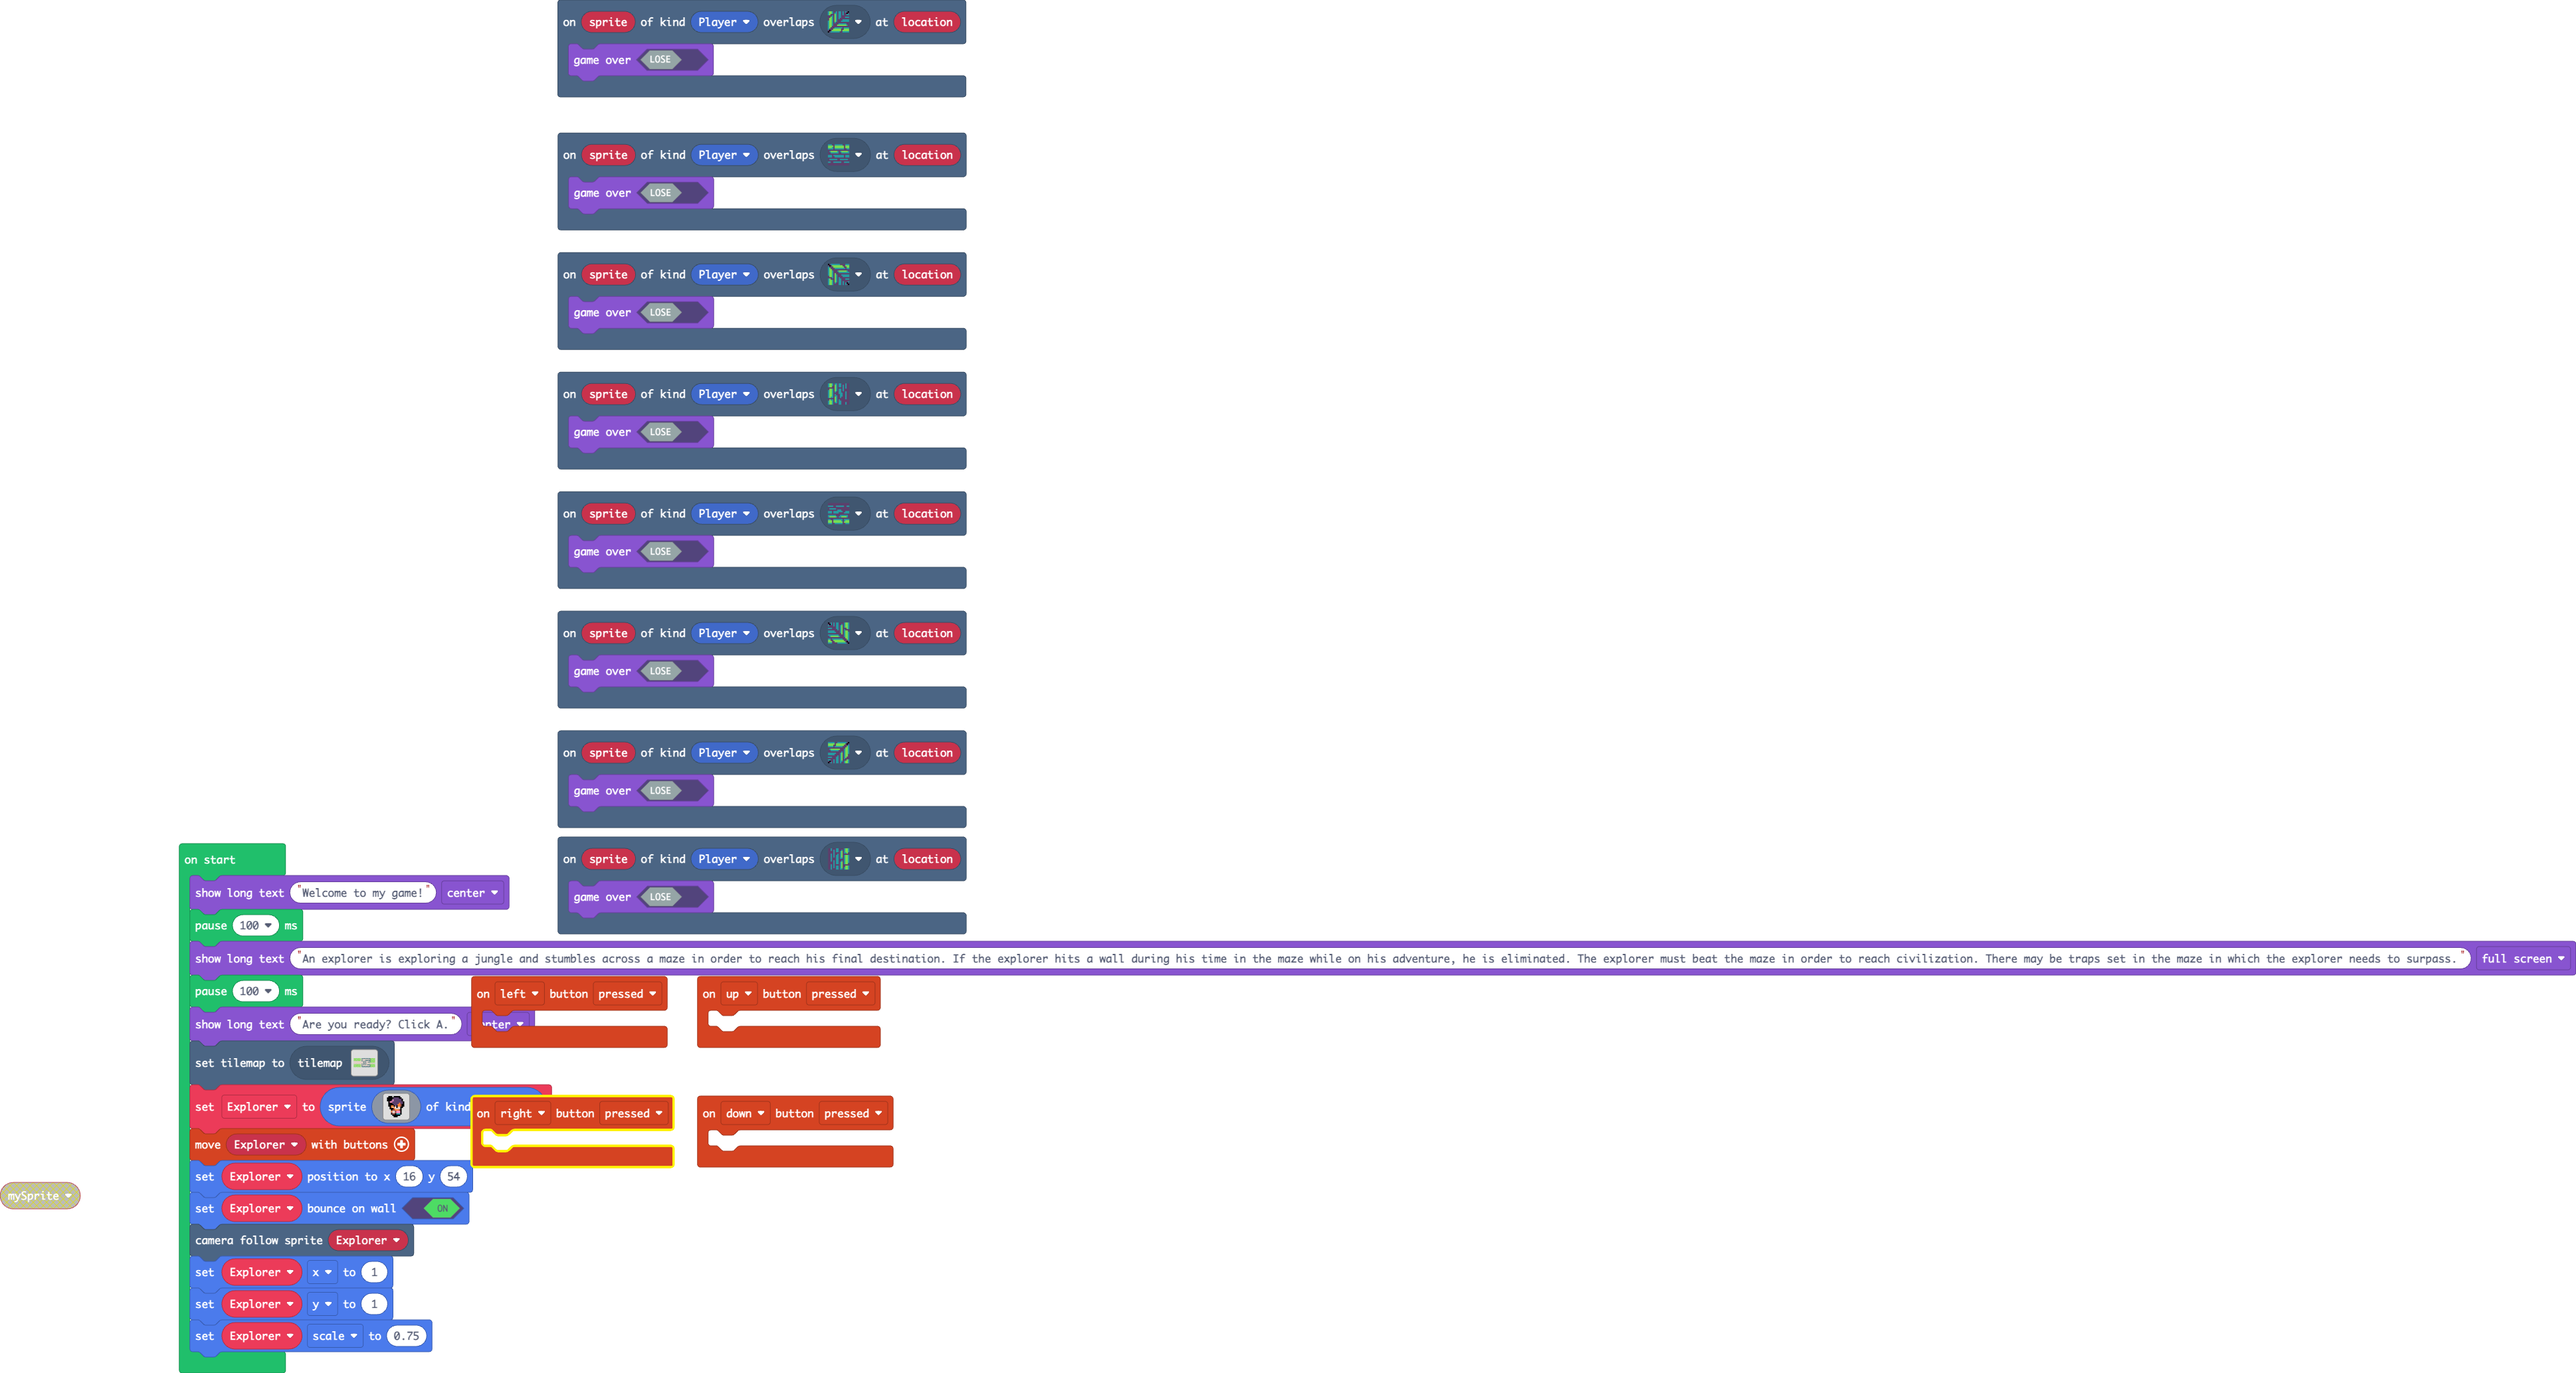
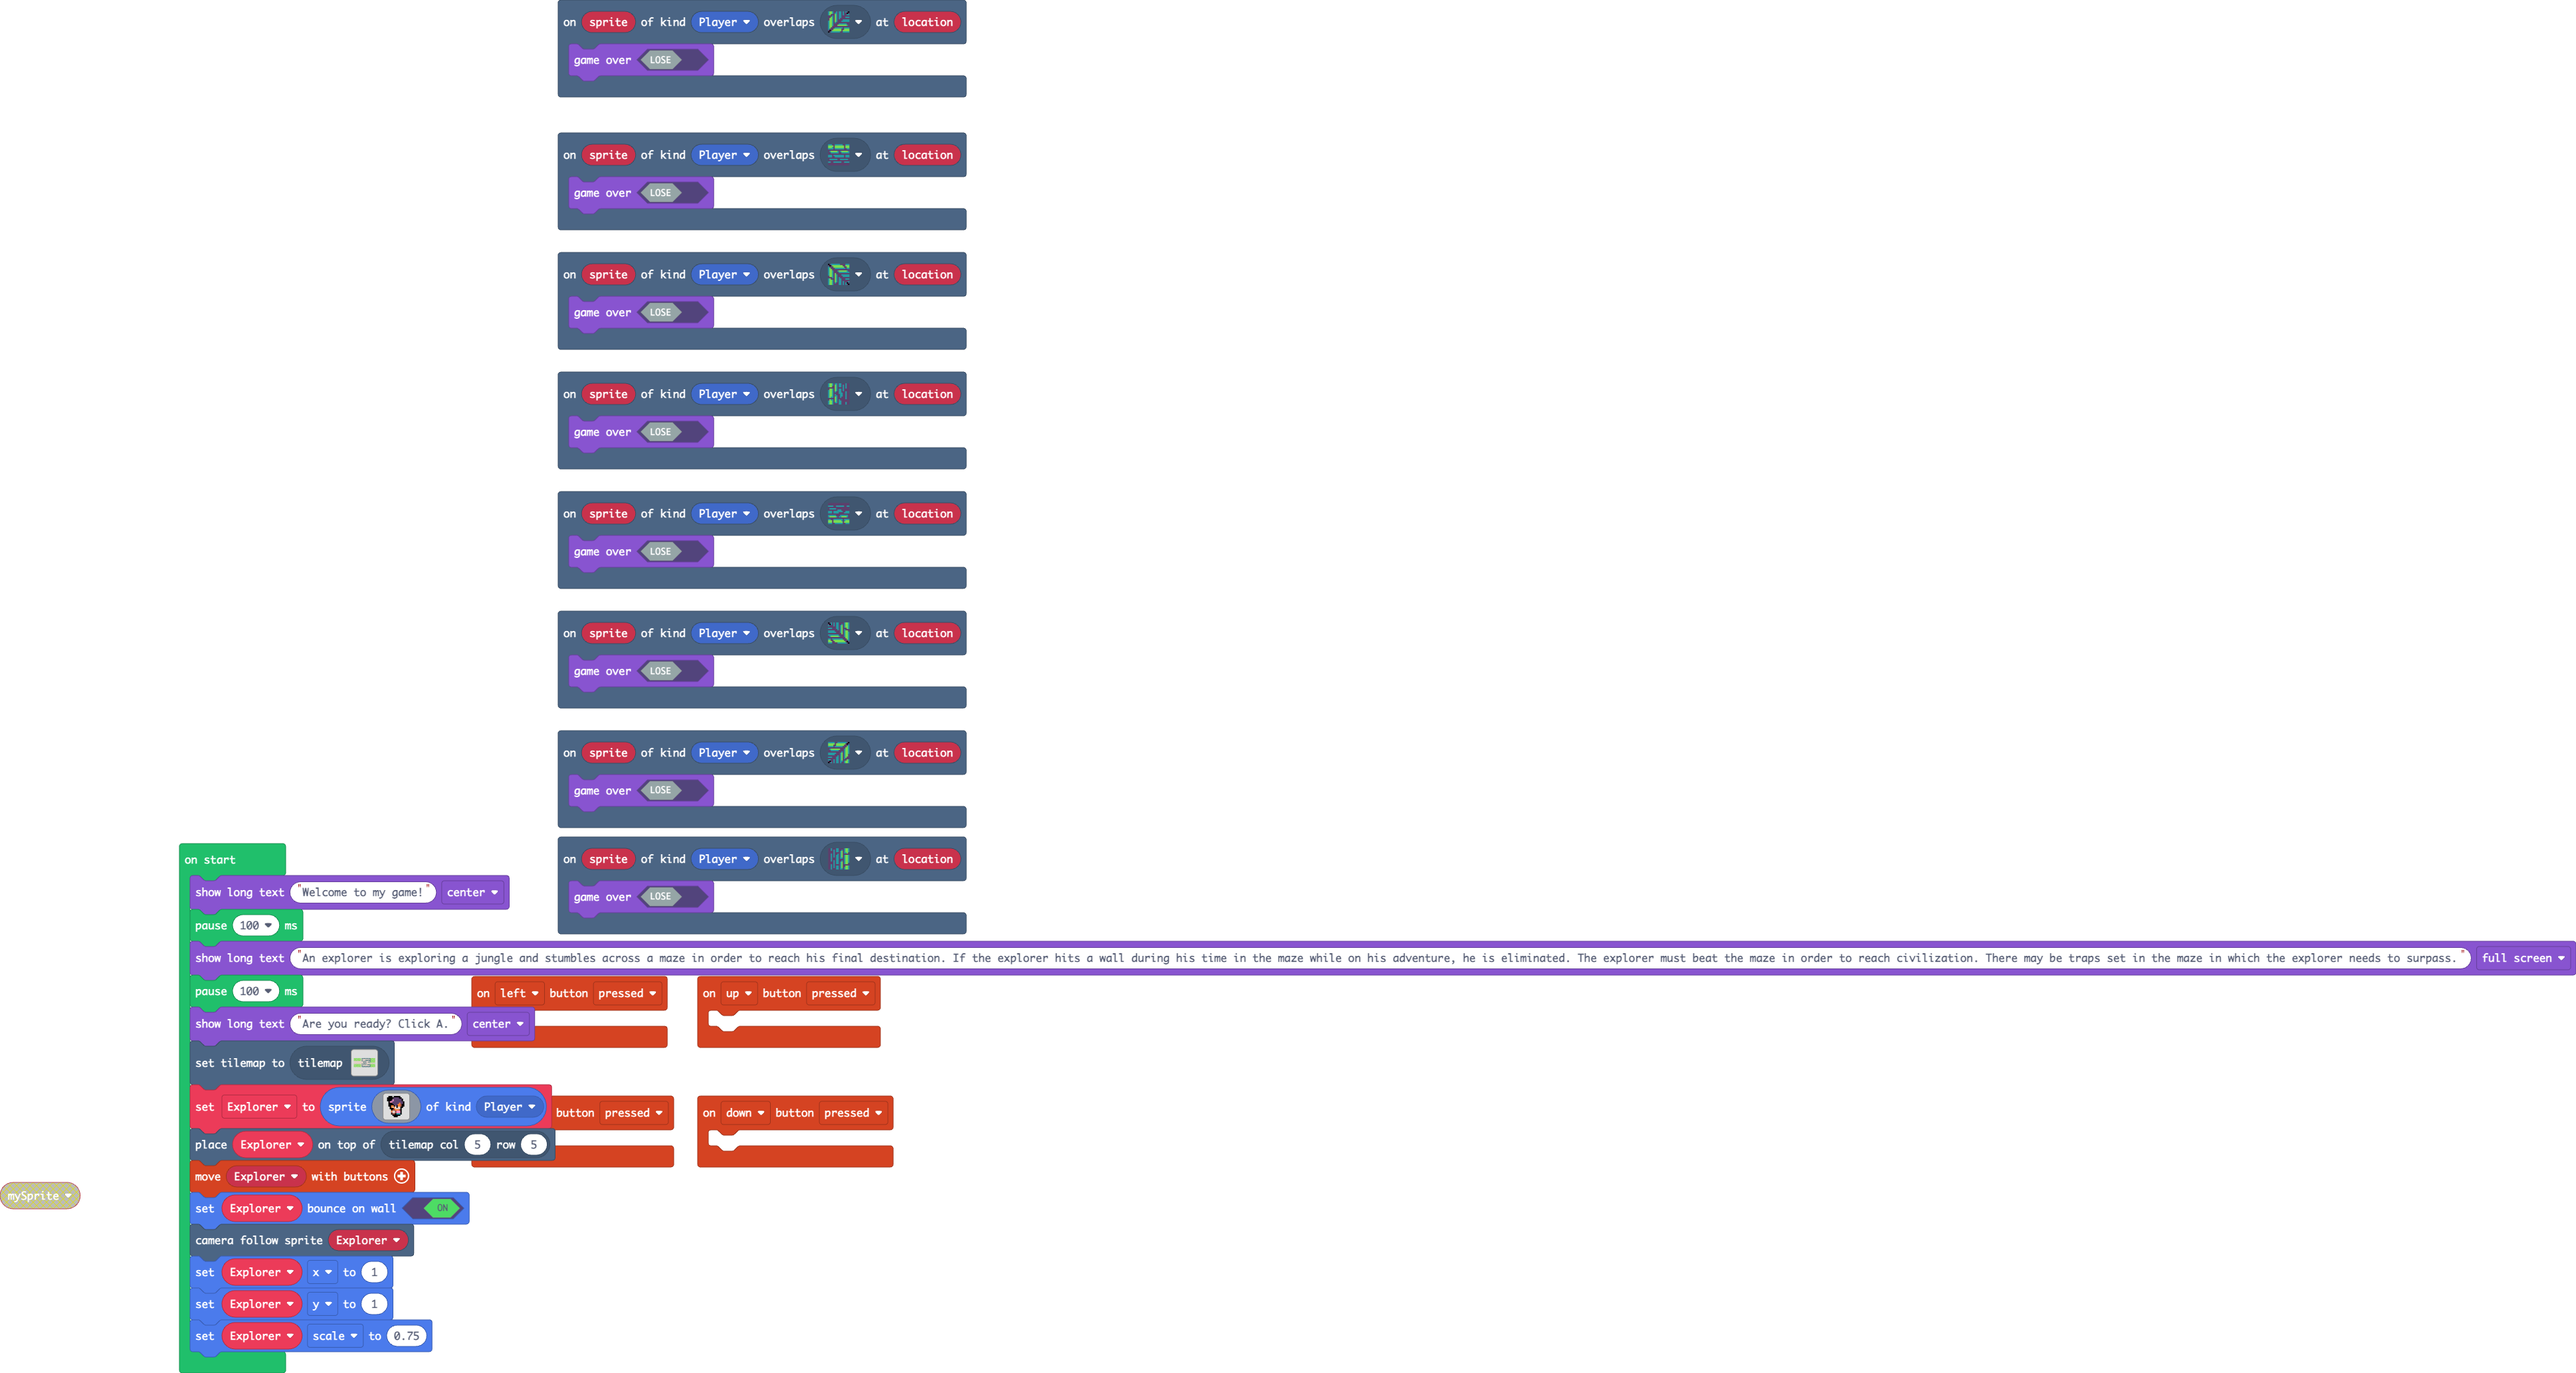
Update main.blocks, main.ts, tilemap.g.jres, tilemap.g.ts

Changed region(s): [[0.0624, 0.7121, 0.2809, 0.867]]

diff --git a/tilemap.g.ts b/tilemap.g.ts
@@ -4,6 +4,8 @@ namespace myTiles {
     export const transparency16 = image.ofBuffer(hex``);
     //% fixedInstance jres blockIdentity=images._tile
     export const tile1 = image.ofBuffer(hex``);
+    //% fixedInstance jres blockIdentity=images._tile
+    export const tile2 = image.ofBuffer(hex``);
 
     helpers._registerFactory("tilemap", function(name: string) {
         switch(helpers.stringTrim(name)) {
@@ -64,19 +66,6 @@ namespace myTiles {
 . . . . . . . . . . . . . . . . 
 . . . . . . . . . . . . . . . . 
 `, [myTiles.transparency16], TileScale.Sixteen);
-            case "level2":
[1 lines of base64/hex data omitted]
-. . . . . . . . . . . . . . . . . . . . . . . . 
-. . . . . . . . . . . . . . . . . . . . . . . . 
-. . . . . . . . . . . . . . . . . . . . . . . . 
-. . . . . . . . . . . . . . . . . . . . . . . . 
-. . . . . . . . . . . . . . . . . . . . . . . . 
-. . . . . . . . . . . . . . . . . . . . . . . . 
-. . . . . . . . . . . . . . . . . . . . . . . . 
-. . . . . . . . . . . . . . . . . . . . . . . . 
-. . . . . . . . . . . . . . . . . . . . . . . . 
-. . . . . . . . . . . . . . . . . . . . . . . . 
-`, [myTiles.transparency16,sprites.castle.tileGrass2,sprites.castle.tilePath4,sprites.castle.tilePath5,sprites.castle.tilePath8,sprites.castle.tilePath2,sprites.castle.tileGrass1,sprites.castle.tileGrass3,sprites.dungeon.greenOuterNorth0,sprites.dungeon.greenOuterNorthWest,sprites.dungeon.greenOuterWest1,sprites.dungeon.greenOuterSouthEast,sprites.dungeon.greenOuterSouth0,sprites.dungeon.greenOuterSouthWest,sprites.dungeon.greenOuterNorthEast,sprites.dungeon.greenOuterEast0], TileScale.Sixteen);
             case "level5":
             case "level5":return tiles.createTilemap(hex`1000100000000000000000000000000000000000000000000000000000000000000000000000000000000000000000000000000000000000000000000000000000000000000000000000000000000000000000000000000000000000000000000000000000000000000000000000000000000000000000000000000000000000000000000000000000000000000000000000000000000000000000000000000000000000000000000000000000000000000000000000000000000000000000000000000000000000000000000000000000000000000000000000000000000000000000000000000000000000000000000000000000000000000000000000000000000000`, img`
 . . . . . . . . . . . . . . . . 
@@ -96,6 +85,19 @@ namespace myTiles {
 . . . . . . . . . . . . . . . . 
 . . . . . . . . . . . . . . . . 
 `, [myTiles.transparency16], TileScale.Sixteen);
+            case "level2":
[1 lines of base64/hex data omitted]
+. . . . . . . . . . . . . . . . . . . . . . . . 
+. . . . . . . . . . . . . . . . . . . . . . . . 
+. . . . . . . . . . . . . . . . . . . . . . . . 
+. . . . . . . . . . . . . . . . . . . . . . . . 
+. . . . . . . . . . . . . . . . . . . . . . . . 
+. . . . . . . . . . . . . . . . . . . . . . . . 
+. . . . . . . . . . . . . . . . . . . . . . . . 
+. . . . . . . . . . . . . . . . . . . . . . . . 
+. . . . . . . . . . . . . . . . . . . . . . . . 
+. . . . . . . . . . . . . . . . . . . . . . . . 
+`, [myTiles.transparency16,sprites.castle.tileGrass2,sprites.castle.tilePath4,sprites.castle.tilePath5,sprites.castle.tilePath8,sprites.castle.tilePath2,sprites.castle.tileGrass1,sprites.castle.tileGrass3,sprites.dungeon.greenOuterNorth0,sprites.dungeon.greenOuterNorthWest,sprites.dungeon.greenOuterWest1,sprites.dungeon.greenOuterSouthEast,sprites.dungeon.greenOuterSouth0,sprites.dungeon.greenOuterSouthWest,sprites.dungeon.greenOuterNorthEast,sprites.dungeon.greenOuterEast0,myTiles.tile2], TileScale.Sixteen);
         }
         return null;
     })
@@ -105,6 +107,8 @@ namespace myTiles {
             case "transparency16":return transparency16;
             case "myTile":
             case "tile1":return tile1;
+            case "myTile0":
+            case "tile2":return tile2;
         }
         return null;
     })

diff --git a/main.ts b/main.ts
@@ -58,8 +58,8 @@ let Explorer = sprites.create(img`
     . . . . f f f f f f . . . . 
     . . . . . f f f . . . . . . 
     `, SpriteKind.Player)
+tiles.placeOnTile(Explorer, tiles.getTileLocation(5, 5))
 controller.moveSprite(Explorer)
-Explorer.setPosition(16, 54)
 Explorer.setBounceOnWall(true)
 scene.cameraFollowSprite(Explorer)
 Explorer.x = 1
